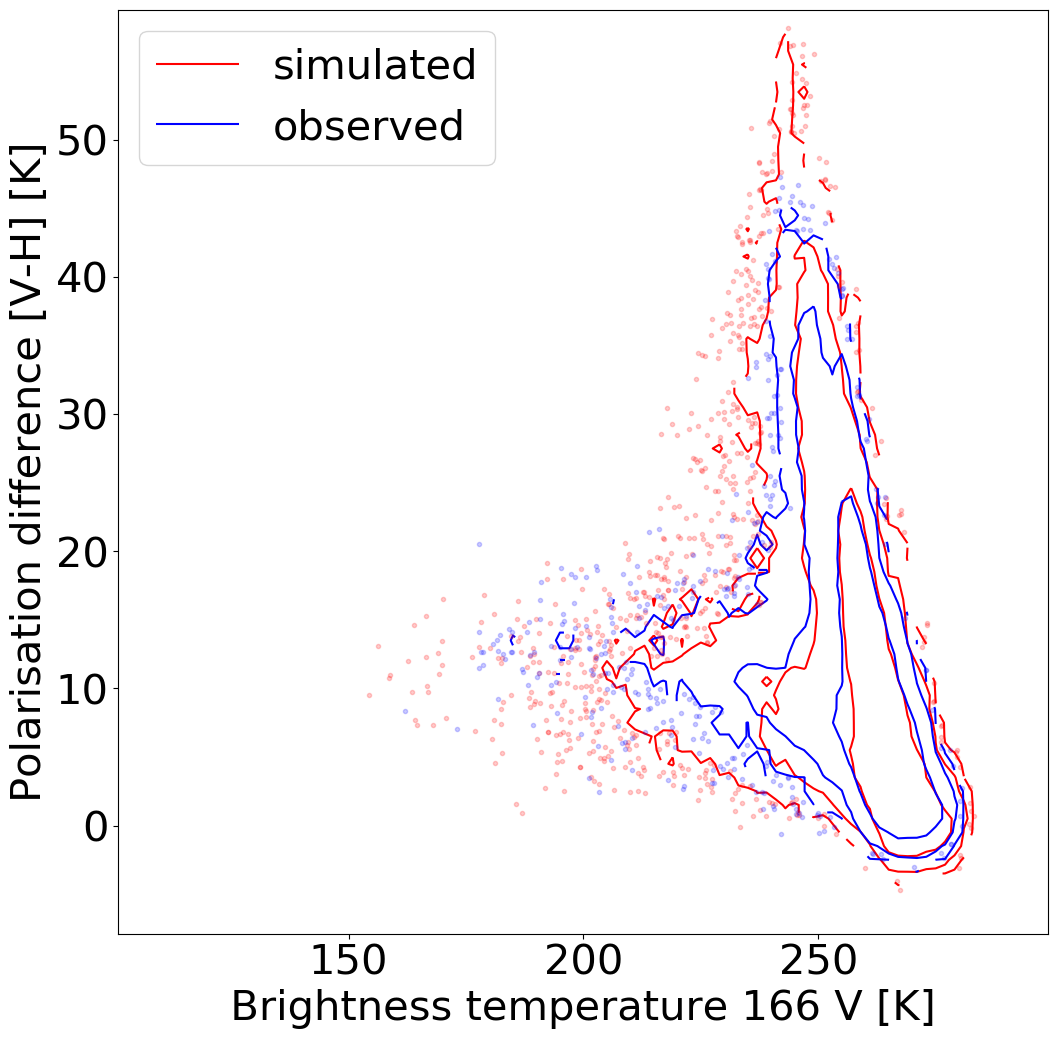
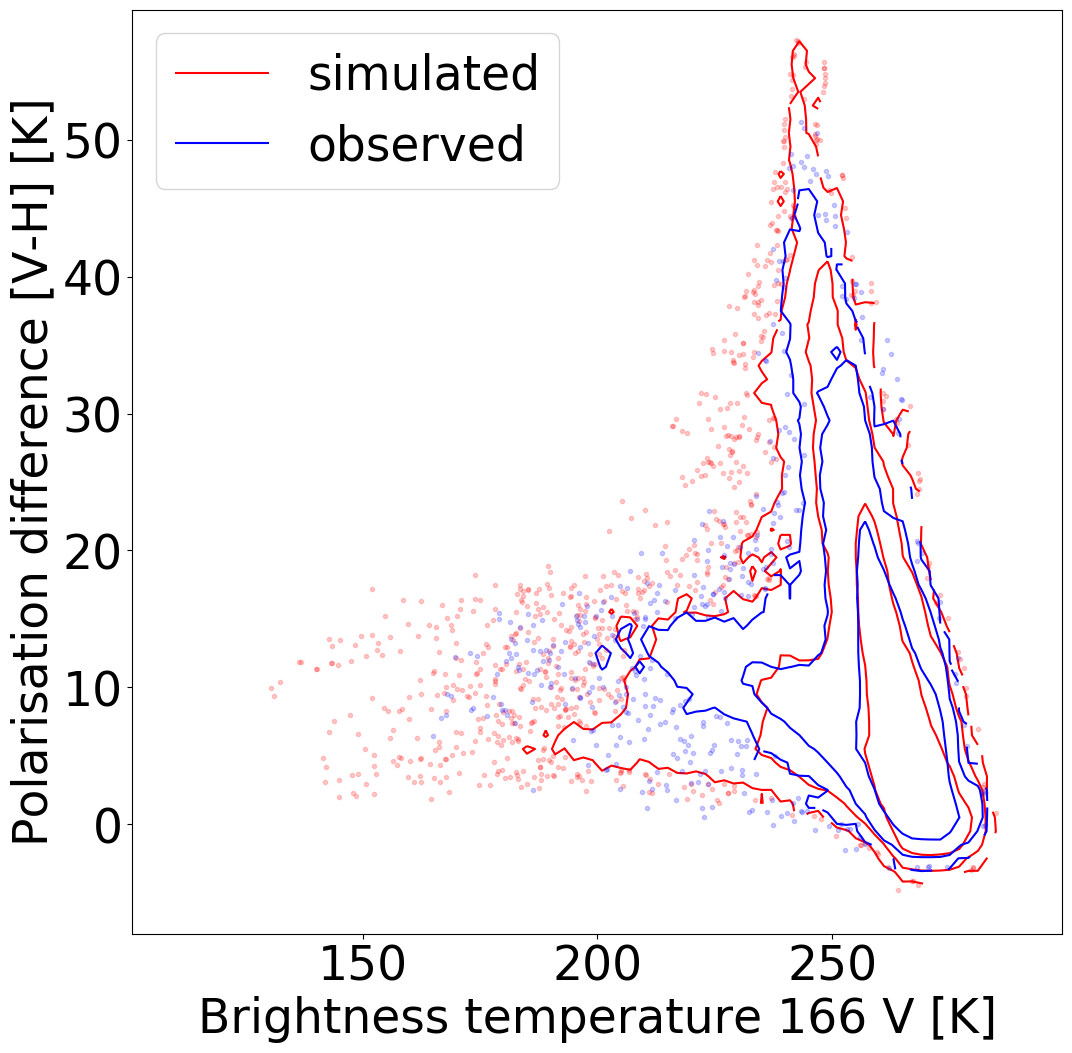
updated figures and text

diff --git a/SNSA_application.tex b/SNSA_application.tex
@@ -43,8 +43,7 @@
 
 \section{General summary}
 
-The basic aim of this project is to develop new retrieval algorithms principally for total water vapour (TWV) from satellite microwave radiometer data over polar areas. We propose a physically based retrievals, using a Bayesian machine learning based inversion method. Additionally, this algorithm could be used to also retrieve total liquid water content (LWC) and sea-ice concentration (SIC). A key feature of this algorithm would be the use high resolution SAR imagery to classify sea-ice and open waters. Fine scale sea-ice information is necessary for distinguishing emissivity between different surface types. Another crucial aspect of the development line will be to use data from multiple microwave frequencies, with different footprint size, and avoiding the remapping of data.
-
+Water vapour plays an important role in the water and energy cycle over the polar regions, especially over Arctic. Over the Arctic, changes in the water vapour content are most sought to observe the warming trends, also know and Artic amplification. However over poles, the ground measurements are sparse and the performance of the satellite retrievals is constrained by the highly variable surface emissivity. The basic aim of this project is to develop new retrieval algorithms principally for total water vapour (TWV) from satellite microwave radiometer data over the Arctic. We propose a physically based retrievals, using a Bayesian machine learning based inversion method. Additionally, this algorithm could be used to also retrieve side products like total liquid water content (LWC) and sea-ice concentration (SIC). A key feature of this algorithm would be the use high resolution SAR imagery to classify sea-ice and open waters. Fine scale sea-ice information is necessary for distinguishing emissivity between different surface types. Another crucial aspect of the development line will be to use data from multiple microwave frequencies, with different footprint size, and avoiding the remapping of data. The overall scheme shall be similar to the one in a parallel SNSA 2021 proposal submitted by co-applicant Patrick Eriksson.
 The resulting dataset would play an important role in not only analysing the water vapour variability of the Arctic atmospheric but also in deciphering the trends the Arctic climate change.
 
 
@@ -120,7 +119,7 @@ Towards creating as realistic and comprehensive retrieval databases as possible,
 	\includegraphics[height = 35mm]{Figures/hist2d_gmi_highlat_sea-ice.png}
 \end{subfigure}
 	\label{fig:histogram_2d}
-	\caption{Two-dimensional PDFs for the TB and PD for GMI 166\,GHz frequency. Figures (a)-(d) are for land, water, snow and sea-ice surface types respectively.}
+	\caption{Two-dimensional PDFs for the TB and PD for GMI 166\,GHz frequency. Figures (a)-(d) are for land, water, snow and sea-ice surface types respectively. The simulated GMI data is from Jan 2009, while GMI measurements are from Jan 2020.}
 \end{figure*}
 
 In order to verify that the data in the training database covers the actual measurement space, the measured and simulated TB from GMI are compared statistically. Figure~\ref{fig:histogram_2d} shows the polarisation difference (PD) and TB histograms from 166 GHz for different surface types. The PD is defined as difference between V and H polarisations. The effect of including particle orientation using the scheme of \citep{baralakas:intro:21} indeed looks promising to mimic the effect of hydrometeor interaction.
@@ -132,18 +131,29 @@ Over both sea-ice and snow, the PDs are mostly positive as a consequence of hydr
 
 \begin{figure*}[t]
 	\centering
-	\includegraphics[height = 40mm]{Figures/WVP_scatter_monthlymean.png} 
-	\label{fig:wvp_scatter}
-	\caption{Scatterplot between monthly means derived from WVP retrieved from QRNN and ERA5. The data is for January 2020. The red line is the line of best fit, while the black indicates the perfect fit.}
+	\begin{subfigure}{.54\textwidth}
+		\includegraphics[height = 55mm]{Figures/WVP_spatial_jan2020.png}
+	\end{subfigure}
+	\begin{subfigure}{.34\textwidth}
+	\includegraphics[height = 50mm]{Figures/WVP_scatter_monthlymean.png} 
+	\end{subfigure}
+	\caption{The spatial distributions (left) of monthly means estimated from retrieved WVP and ERA5 WVP. The data is for January 2020. The corresponding scatter between the two datasets is shown on the right. The red line is the line of best fit, while the black indicates the perfect fit.}
 \end{figure*}
 
-The QRNN algorithm described in sec~\ref{sec:qrnn} is applied to TB from 166 \,GHz and 183\,GHz to retrieve the corresponding WVPs. A comparison of the monthly means for the retrieved WVP and ERA5 WVP is displayed in fig.~\ref{fig:wvp_scatter}. To enable comparison on common scales, both datasets were re-gridded to 2.5$^{\circ}$. The correlation between the monthly means between the two datasets is 0.97. 
+
+The QRNN algorithm described in sec~\ref{sec:qrnn} is applied to TB from 166 V\,GHz, 166 H\,GHz, 183$\pm$3\,GHz and 183$\pm$7\,GHz to retrieve the corresponding WVPs. 2m temperature, latitude and surface type is also provided as auxiliary information. In order to compare the retrieved WVP with ERA5 total column wate rvapour (TCWV), the retrievals are re-gridded to 2.5$^{\circ}$ resolution. A comparison of the monthly means from both datasets is displayed in fig~\ref{fig:wvp_scatter}. The correlation between the monthly means between the two datasets is 0.97. 
 
 
 \subsection{A: Retrievals}
 \subsubsection{Work packages}
 
-\todo{add a flowchart}
+\begin{figure*}[t]
+	\centering
+	\includegraphics[trim=140 290 20 100,clip,height = 90mm]{flowchart.pdf} 
+	\caption{Flowchart displaying the schema of the proposed retrieval system.}
+	\label{fig:flowchart}
+\end{figure*}
+
 
 \subsubsection*{A1: Basic atmospheric scenarios}
 
@@ -155,13 +165,10 @@ represents the a priori for the retrievals. Another option is to base the
 simulations directly on observations as far as possible. In this study, we shall base the input to simulations through model observations. Over two sub-domains of Arctic, regional reanalyses performed with HARMONIE-AROME system at 2.5\,km resolution are available. This additional reanalyses available for European Arctic have improved parametrisations and extensive use of satellite data not previously used. Additionally, another option could be to use ICON model
 (\url{www.mpimet.mpg.de/en/science/models}) that our colleagues in Hamburg have direct access to. 
 
-\subsubsection*{A2 : Sea-ice emissivity}
+\subsubsection*{A2 : Emissivity model}
 
-0.5 page
 
-	- Sea-ice Emissivity 
-		- HR identification of sea-ice 	(info from Leif, figure?)
-		- 1D VAR retrievals of sea-ice emissivity?  
+ 
 	
 \subsubsection*{A3 : Database creation}
 	
@@ -170,31 +177,43 @@ Initially some time will be needed to implement the scripts needed for the basic
 to add jobs to the calculation cluster and the post-processing needed. WP output is batches of
 simulated radiances that are put into one or several retrieval databases.
 
+\todo{more text needed}
+
 \subsubsection*{A4 : Antenna pattern}
 
 AMSR2 frequencies have different spatial resolutions. To generate the antenna pattern at a the desired frequency, a number of pencil beam radiative transfer calculations are performed to incorporate both along-track and across-track sampling. 
 
-	
+\todo{more text needed}	
 
 \subsubsection*{A5 : Retrieval setup}
 
 The package for QRNN is already available as a part the Typhon software package \citep{lemke:2020:typho}. The implementation of the retrieval algorithm shall be relatively straightforward but the challenge would be to find the best performing neural-network architecture so as to achieve the best model performance. Besides, it would also be important to test the sensitivity of various auxiliary data to the retrieval performance. In order to run the retrievals, we shall make use of the Chalmers central computational cluster (C3SE).
 
-\subsubsection*{A6 : WVP retrieval}
+\subsubsection*{A6 : Retrievals}
 
-\subsubsection*{A7 : Liquid water content retrieval}
 
 
 \subsection{B: Analysis and application}
 
-In order to evaluate the quality of the retrievals, in this work package, we shall aim at reviewing the performance with other available products.
+
 
 \subsubsection{Work packages}
-\subsubsection*{Assessment with available products}
+\subsubsection*{B1 : Assessment with available products}
+
+In order to evaluate the quality of the retrievals, in this work package, we shall aim at reviewing the performance with other available products. Huge variabilities exist between various available long-term datasets over the polar regions \citep{}. In this study a thorough investigation with the available  insitudata, satellite products and reanalysis would be crucial. Firstly, direct comparisons with radio-soundings or data from flight campaigns would be used to estimate the accuracy of the product and reveal the uncertainties on finer scales.  Direct comparisons with other satellite products from AMSR will also made, but owing to different orbit characteristics of other satellite based products (e.g. from IR), statistical comparison is more appropriate. Time series of daily and monthly means, and the probability distribution functions (PDFs) of the retrievals would be analysed.
+
+Here it would also be important to analyse the accuracy over seasons and different surface types: open water and sea-ice regions being the most important, 
 
 
 
-\subsubsection*{Applications}
+\subsubsection*{B2 : Applications}
+
+\subsubsection*{B3 : Additional Retrievals}
+
+The MW emissivity spectra has characteristic features important to retrieve the sea-ice concentration. The high resolution emissivity retrievals can additionally be post-processed to generate estimates of SIC. The post-processing simply involves matching the 1D-VAR emissivity estimates over sea-ice to a pre-computed catalog of mean emissivity spectra. Infact, validation of the SIC against other available products like MiRS (Microwave Integrated Retrieval System) based operational cyrogenic products (\url{https://www.star.nesdis.noaa.gov/mirs/highresolutionv.php}) can also serve as an indirect validation of the emissivity retrievals.
+
+\todo{catalog ?} 
+
 
 \subsection{Risk Assessment}
 0.5 page
@@ -203,7 +222,7 @@ In order to evaluate the quality of the retrievals, in this work package, we sha
 
 In order to recieve feedback on the retrieval database, we would closely collaborate with group lead by Georg Heygster, University of Bremen to cover the analysis and validation aspects. Additionally, a contact with the group of Prof. Susanne Crewell would be also be useful for validation purposes. Their group is operating the MiRaC airborne sensor (a combined radar and radiometer) during polar flights (Mech et al., 2019).
 
-ECMWF assimilation?
+\todo{ECMWF assimilation?}
 
 \section{Staff situation}
 \label{sec:staff}
